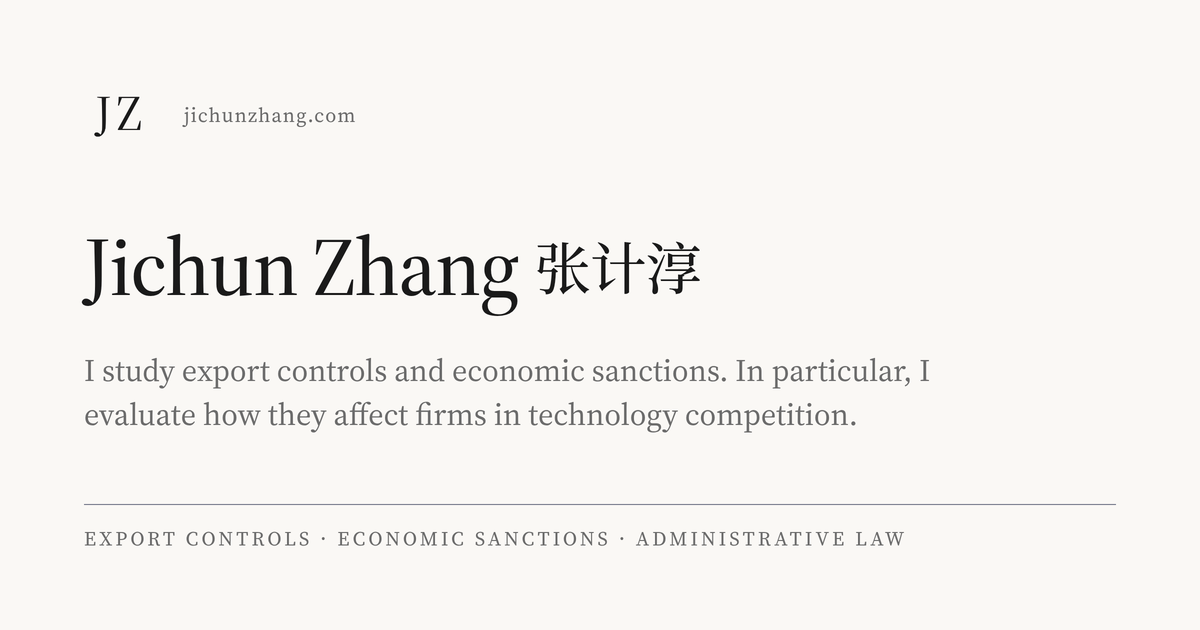
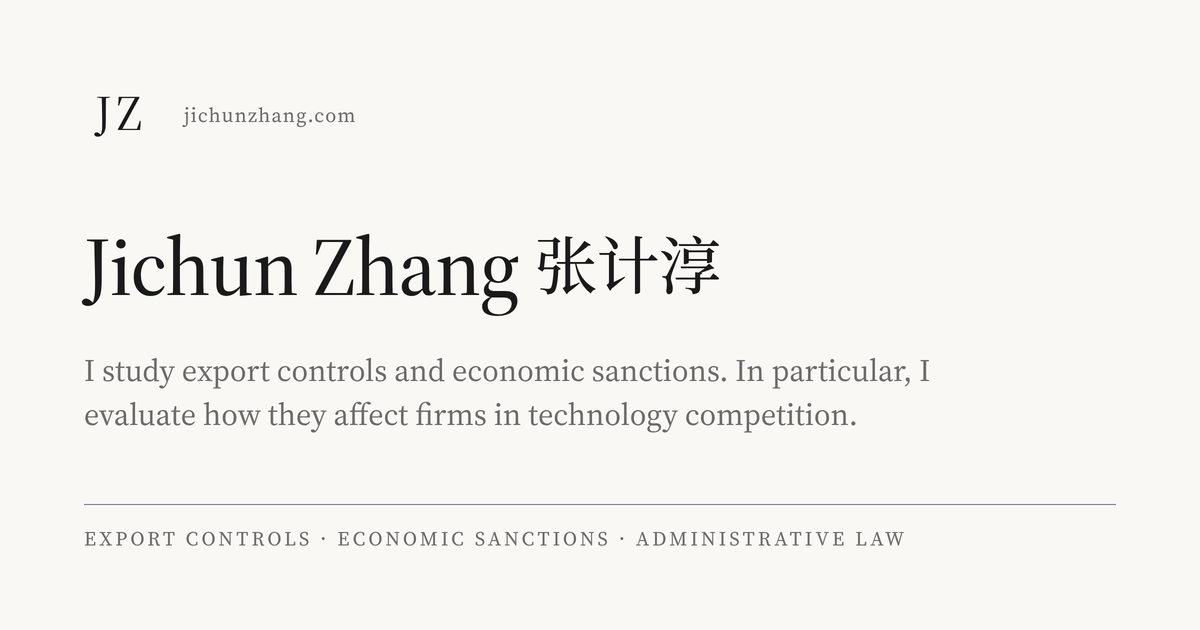
site: content update 2026-09-17 19:11

Changed region(s): [[0.4317, 0.3619, 0.6167, 0.4825]]

diff --git a/404.html b/404.html
@@ -38,7 +38,7 @@ header{border-bottom:1px solid var(--rule);padding-bottom:19px;margin-bottom:30p
 .hdrtext{min-width:0}
 h1{font-size:1.6rem;font-weight:500;margin:0 0 4px;letter-spacing:-.01em}
 [lang="zh-Hans"],[lang^="zh"]{font-family:"Noto Serif SC",Georgia,"Songti SC","SimSun",serif}
-h1 [lang^="zh"], h2 [lang^="zh"], .name [lang^="zh"]{font-size:.69em;vertical-align:.095em}
+h1 [lang^="zh"], h2 [lang^="zh"], .name [lang^="zh"]{font-size:.77em;vertical-align:.095em}
 .role{font-family:var(--mono);font-size:.72rem;text-transform:uppercase;letter-spacing:.08em;color:var(--soft)}
 .contact{margin-top:6px;font-family:var(--mono);font-size:.76rem;color:var(--soft);letter-spacing:.02em}
 nav{margin-top:12px;font-family:var(--mono);font-size:.8rem;letter-spacing:.04em;margin-left:-9px;display:flex;gap:4px;flex-wrap:wrap}

diff --git a/cv.html b/cv.html
@@ -38,7 +38,7 @@ header{border-bottom:1px solid var(--rule);padding-bottom:19px;margin-bottom:30p
 .hdrtext{min-width:0}
 h1{font-size:1.6rem;font-weight:500;margin:0 0 4px;letter-spacing:-.01em}
 [lang="zh-Hans"],[lang^="zh"]{font-family:"Noto Serif SC",Georgia,"Songti SC","SimSun",serif}
-h1 [lang^="zh"], h2 [lang^="zh"], .name [lang^="zh"]{font-size:.69em;vertical-align:.095em}
+h1 [lang^="zh"], h2 [lang^="zh"], .name [lang^="zh"]{font-size:.77em;vertical-align:.095em}
 .role{font-family:var(--mono);font-size:.72rem;text-transform:uppercase;letter-spacing:.08em;color:var(--soft)}
 .contact{margin-top:6px;font-family:var(--mono);font-size:.76rem;color:var(--soft);letter-spacing:.02em}
 nav{margin-top:12px;font-family:var(--mono);font-size:.8rem;letter-spacing:.04em;margin-left:-9px;display:flex;gap:4px;flex-wrap:wrap}

diff --git a/index.html b/index.html
@@ -39,7 +39,7 @@ header{border-bottom:1px solid var(--rule);padding-bottom:19px;margin-bottom:30p
 .hdrtext{min-width:0}
 h1{font-size:1.6rem;font-weight:500;margin:0 0 4px;letter-spacing:-.01em}
 [lang="zh-Hans"],[lang^="zh"]{font-family:"Noto Serif SC",Georgia,"Songti SC","SimSun",serif}
-h1 [lang^="zh"], h2 [lang^="zh"], .name [lang^="zh"]{font-size:.69em;vertical-align:.095em}
+h1 [lang^="zh"], h2 [lang^="zh"], .name [lang^="zh"]{font-size:.77em;vertical-align:.095em}
 .role{font-family:var(--mono);font-size:.72rem;text-transform:uppercase;letter-spacing:.08em;color:var(--soft)}
 .contact{margin-top:6px;font-family:var(--mono);font-size:.76rem;color:var(--soft);letter-spacing:.02em}
 nav{margin-top:12px;font-family:var(--mono);font-size:.8rem;letter-spacing:.04em;margin-left:-9px;display:flex;gap:4px;flex-wrap:wrap}

diff --git a/research.html b/research.html
@@ -38,7 +38,7 @@ header{border-bottom:1px solid var(--rule);padding-bottom:19px;margin-bottom:30p
 .hdrtext{min-width:0}
 h1{font-size:1.6rem;font-weight:500;margin:0 0 4px;letter-spacing:-.01em}
 [lang="zh-Hans"],[lang^="zh"]{font-family:"Noto Serif SC",Georgia,"Songti SC","SimSun",serif}
-h1 [lang^="zh"], h2 [lang^="zh"], .name [lang^="zh"]{font-size:.69em;vertical-align:.095em}
+h1 [lang^="zh"], h2 [lang^="zh"], .name [lang^="zh"]{font-size:.77em;vertical-align:.095em}
 .role{font-family:var(--mono);font-size:.72rem;text-transform:uppercase;letter-spacing:.08em;color:var(--soft)}
 .contact{margin-top:6px;font-family:var(--mono);font-size:.76rem;color:var(--soft);letter-spacing:.02em}
 nav{margin-top:12px;font-family:var(--mono);font-size:.8rem;letter-spacing:.04em;margin-left:-9px;display:flex;gap:4px;flex-wrap:wrap}
